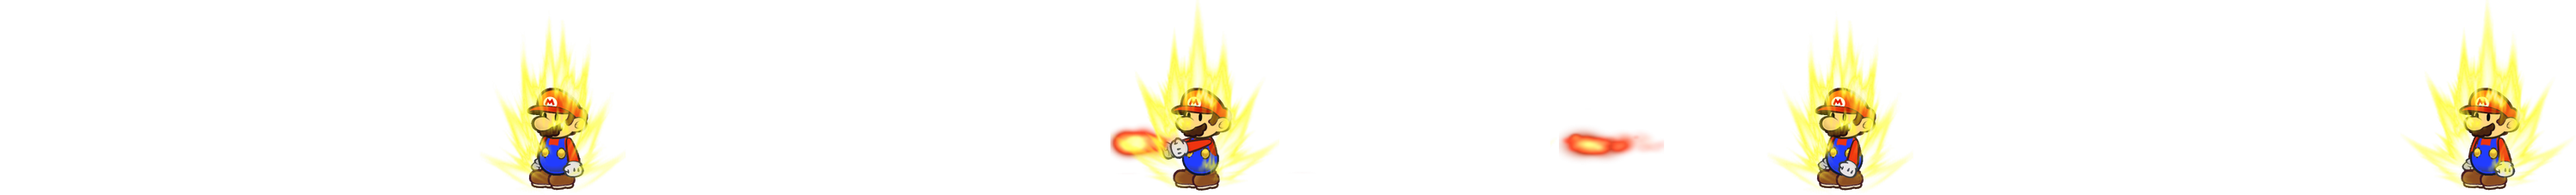
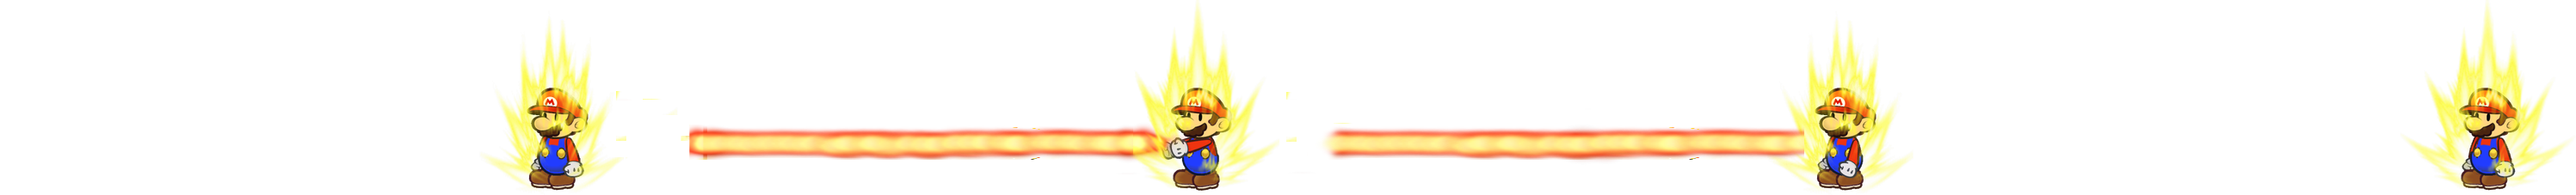
SuperMario Wasted Screen Inserted

Changed region(s): [[0.497, 0.6476, 0.7144, 0.8326], [0.2485, 0.6476, 0.4659, 0.8326]]

diff --git a/SuperMarioSanAndreas/world.cpp b/SuperMarioSanAndreas/world.cpp
@@ -8,7 +8,7 @@
 #include <allegro5/allegro_acodec.h>
 #include <cmath>
 using namespace std;
-#define length 1366 //defining the screen lenght 
+#define length 1366 //defining the screen length 
 #define width 770  //defining the screen width 
 #include "Enemies.cpp"
 #include "pilars.cpp"
@@ -36,32 +36,7 @@ void drawMulti(first startloop, first endloop, first plusplus,second object[],fi
 			}
 		}
 int top, bot, lef, righ;
-bool marioCollide(float x, float y, float ex, float ey, int len, int height, float &moveSpeed, int dir, ALLEGRO_BITMAP *player, ALLEGRO_BITMAP *enemy)
-{
-	if (x+len<ex||x>ex+len||y+height<ey||y>ey+height)
-		return false;
-	else
-	{
-		top = max(y, ey);
-		bot = min(y + height, ey + height);
-		lef= max(x, ex);
-		righ = min(x + len, ex + len);
-		for (int i= top; i < bot; i++)
-		{
-			for (int j = lef; j < righ; j++)
-			{
-				al_lock_bitmap(player, al_get_bitmap_format(player), ALLEGRO_LOCK_READONLY);
-				al_lock_bitmap(enemy, al_get_bitmap_format(enemy), ALLEGRO_LOCK_READONLY);
-				ALLEGRO_COLOR color = al_get_pixel(player, j - x, i - y);
-				ALLEGRO_COLOR color2 = al_get_pixel(enemy, j - ex, i - ey);
-				if (color.a != 0 && color2.a != 0)
-				{
-					return true;//collide
-				}
-			}
-		}
-	}
-}
+
 
  int main(){//main function
 
@@ -151,7 +126,7 @@ bool marioCollide(float x, float y, float ex, float ey, int len, int height, flo
 
 	///////////////////////////////////////////////////////////////////////IMAGE LOADING/////////////////////////////////////////////////////////////
 	ALLEGRO_BITMAP *start = al_load_bitmap("start.png");
-
+	ALLEGRO_BITMAP *wasted = al_load_bitmap("wasted screen.png");
 	ALLEGRO_BITMAP *Duck = al_load_bitmap("Duck.png");
 	ALLEGRO_BITMAP *Jump = al_load_bitmap("Jump.png");
 	ALLEGRO_BITMAP *Stand = al_load_bitmap("Stand.png");
@@ -193,14 +168,12 @@ bool marioCollide(float x, float y, float ex, float ey, int len, int height, flo
 	ALLEGRO_BITMAP *luigiBM = al_load_bitmap("Luigi.png");
 	ALLEGRO_BITMAP *luigiHealth = al_load_bitmap("Luigi_health_bar.png");
 
+	ALLEGRO_BITMAP *currMario1;
+	ALLEGRO_BITMAP *currMario2;
 
[1 lines of base64/hex data omitted]
-	ALLEGRO_SAMPLE *startSound = al_load_sample("1.wav");
-	//ALLEGRO_SAMPLE_ID id1;
-	ALLEGRO_SAMPLE *gameSong = al_load_sample("Mario Theme Song (thewcoop Trap Remix).wav");
-	//ALLEGRO_SAMPLE_ID id2;
-	al_reserve_samples(2);
 	///////////////////////////////////////////////////CALLING CLASSES/////////////////////////////////////////////////////////////////////////////
+	
+	SuperMario marioObject;
 
 	Enemies gangster[numOfEnemys];						//creates 1 object of enemies class
 	gangster[0].setValues(1000, 590, 1000, 1500,1);	//sets values to enemy
@@ -457,18 +430,37 @@ bool marioCollide(float x, float y, float ex, float ey, int len, int height, flo
 	al_start_timer(luigiTimer);	// luigi timer
 	al_get_keyboard_state(&keyState);
 	jumpCheck = false;
-	
[1 lines of base64/hex data omitted]
+ALLEGRO_SAMPLE *startSound = al_load_sample("1.wav");
+	//ALLEGRO_SAMPLE_ID id1;
+	ALLEGRO_SAMPLE *gameSong = al_load_sample("Mario Theme Song (thewcoop Trap Remix).wav");
+	//ALLEGRO_SAMPLE_ID id2;
+	al_reserve_samples(2);
 	/////////////////////////////////////////////////////////Start SplashScreen////////////////////////////////////////////////
-
 	
-	while (!done)	// main game loop
+	
+ while (!done)	// splash loop
 	{
 		ALLEGRO_EVENT events;
 		al_wait_for_event(event_queue, &events);
-		if (events.type == ALLEGRO_EVENT_TIMER)
+		if (events.type == ALLEGRO_EVENT_KEY_DOWN)
 		{
 
+			switch (events.keyboard.keycode)
+			{
+			case ALLEGRO_KEY_ESCAPE:
+				done = true;
+				break;
+			}
+		}
 
+		else if (events.type == ALLEGRO_EVENT_DISPLAY_CLOSE)
+		{
+			done = true;
+		}
+
+			if (events.type == ALLEGRO_EVENT_TIMER)
+			{
 			if (events.timer.source == timer)
 			{
 				al_play_sample(startSound,1.0,0.0,1.0,ALLEGRO_PLAYMODE_LOOP,0);
@@ -493,8 +485,59 @@ bool marioCollide(float x, float y, float ex, float ey, int len, int height, flo
 
 	//al_stop_sample(id1);
 	al_destroy_sample(startSound);
-
+	bool reset = false;
 	/////////////////////////////////////////////////////////End Of Start SplashScreen////////////////////////////////
+Line2:
+
[1 lines of base64/hex data omitted]
+	if (reset == true)
+	{
+		while (!done)	// main game loop
+		{
+			ALLEGRO_EVENT events;
+			al_wait_for_event(event_queue, &events);
+			if (events.type == ALLEGRO_EVENT_KEY_DOWN)
+			{
+
+				switch (events.keyboard.keycode)
+				{
+				case ALLEGRO_KEY_ESCAPE:
+					done = true;
+					break;
+				}
+			}
+
+			else if (events.type == ALLEGRO_EVENT_DISPLAY_CLOSE)
+			{
+				done = true;
+			}
+
+			if (events.type == ALLEGRO_EVENT_TIMER)
+			{
+				if (events.timer.source == timer)
+				{
+					active = true;
+
+					al_get_keyboard_state(&keyState);
+
+					if (al_key_down(&keyState, ALLEGRO_KEY_SPACE))
+					{
+						done = true;
+					}
+					draw = true;
+				}
+				if (draw)
+				{
+					
+					al_draw_bitmap(wasted, cameraposition[0], cameraposition[1], NULL);
+					al_flip_display();
+					reset = false;
+					draw = false;
+				}
+			}
+		}
+	}
+	/////////////////////////////////////////////////////////End Of Reset////////////////////////////////
 	done = false;
 
 	level = 3; //The level
@@ -508,11 +551,12 @@ bool marioCollide(float x, float y, float ex, float ey, int len, int height, flo
 
 	while (!done)	// main game loop
 	{
-		//al_play_sample(gameSong, 1.0, 0.0, 1.0, ALLEGRO_PLAYMODE_LOOP, 0);
+		al_play_sample(gameSong, 1.0, 0.0, 1.0, ALLEGRO_PLAYMODE_LOOP, 0);
 		ALLEGRO_EVENT events;
 		al_wait_for_event(event_queue, &events);
 
-
+		
+		
 		if (events.type == ALLEGRO_EVENT_KEY_DOWN)
 		{
 
@@ -779,31 +823,53 @@ bool marioCollide(float x, float y, float ex, float ey, int len, int height, flo
 				{
 				case 0:
 					if (check2 == 1)
-						al_draw_bitmap_region(SuperJumpRight, sourceXf, 0, al_get_bitmap_width(SuperJumpRight) / 10, al_get_bitmap_height(SuperJumpRight), x-20, y, NULL);
+					{
+						al_draw_bitmap_region(SuperJumpRight, sourceXf, 0, al_get_bitmap_width(SuperJumpRight) / 10, al_get_bitmap_height(SuperJumpRight), x - 20, y, NULL);
+						currMario2 = al_create_sub_bitmap(SuperJumpRight, sourceXf, 0, al_get_bitmap_width(SuperJumpRight) / 10, al_get_bitmap_height(SuperJumpRight));
+					}
 					else
-						al_draw_bitmap_region(SuperJumpLeft, sourceXb, 0, al_get_bitmap_width(SuperJumpLeft) / 10, al_get_bitmap_height(SuperJumpLeft), x-20, y, NULL);
+					{
+						al_draw_bitmap_region(SuperJumpLeft, sourceXb, 0, al_get_bitmap_width(SuperJumpLeft) / 10, al_get_bitmap_height(SuperJumpLeft), x - 20, y, NULL);
+						currMario1 = al_create_sub_bitmap(SuperJumpLeft, sourceXb, 0, al_get_bitmap_width(SuperJumpLeft) / 10, al_get_bitmap_height(SuperJumpLeft));
+					}
 					break;
 				case 1:
 					if (check2 == 1)
-						al_draw_bitmap_region(SuperDuckRight, sourceXe, 0, al_get_bitmap_width(SuperDuckRight) / 10, al_get_bitmap_height(SuperDuckRight), x-18, y-3 , NULL);
+					{
+						al_draw_bitmap_region(SuperDuckRight, sourceXe, 0, al_get_bitmap_width(SuperDuckRight) / 10, al_get_bitmap_height(SuperDuckRight), x - 18, y - 3, NULL);
+						currMario2 = al_create_sub_bitmap(SuperDuckRight, sourceXe, 0, al_get_bitmap_width(SuperDuckRight) / 10, al_get_bitmap_height(SuperDuckRight));
+					}
 					else
-						al_draw_bitmap_region(SuperDuckLeft, sourceXa, 0, al_get_bitmap_width(SuperDuckLeft) / 10, al_get_bitmap_height(SuperDuckLeft), x-18, y-3 , NULL);
+					{
+						al_draw_bitmap_region(SuperDuckLeft, sourceXa, 0, al_get_bitmap_width(SuperDuckLeft) / 10, al_get_bitmap_height(SuperDuckLeft), x - 18, y - 3, NULL);
+						currMario1 = al_create_sub_bitmap(SuperDuckLeft, sourceXa, 0, al_get_bitmap_width(SuperDuckLeft), al_get_bitmap_height(SuperDuckLeft));
+					}
 					break;
 				case 2:
 					al_draw_bitmap_region(SuperWalkLeft, sourceXc, 0, al_get_bitmap_width(SuperWalkLeft) / 10, al_get_bitmap_height(SuperWalkLeft), x , y+20, NULL);
+					currMario1 = al_create_sub_bitmap(SuperWalkLeft, sourceXc, 0, al_get_bitmap_width(SuperWalkLeft) / 10, al_get_bitmap_height(SuperWalkLeft));
 					break;
 				case 3:al_draw_bitmap_region(SuperWalkRight, sourceXg, 0, al_get_bitmap_width(SuperWalkRight) / 10, al_get_bitmap_height(SuperWalkRight), x , y+20, NULL);
+					currMario2 = al_create_sub_bitmap(SuperWalkRight, sourceXg, 0, al_get_bitmap_width(SuperWalkRight) / 10, al_get_bitmap_height(SuperWalkRight));
 					break;
 				case 4:al_draw_bitmap_region(SuperStandRight, sourceXh, 0, al_get_bitmap_width(SuperStandRight) / 10, al_get_bitmap_height(SuperStandRight), x, y, NULL);
+					currMario2 = al_create_sub_bitmap(SuperStandRight, sourceXh, 0, al_get_bitmap_width(SuperStandRight) / 10, al_get_bitmap_height(SuperStandRight));
 					break;
 				case 5:
 					al_draw_bitmap_region(SuperStandLeft, sourceXd, 0, al_get_bitmap_width(SuperStandLeft) / 10, al_get_bitmap_height(SuperStandLeft), x, y, NULL);
+					currMario1 = al_create_sub_bitmap(SuperStandLeft, sourceXd, 0, al_get_bitmap_width(SuperStandLeft) / 10, al_get_bitmap_height(SuperStandLeft));
 					break;
 				case 6:
 					if (check2 == 1)
-						al_draw_bitmap_region(SuperAttackRight, sourceXj, 0, al_get_bitmap_width(SuperAttackRight) / 4, al_get_bitmap_height(SuperAttackRight), x - 23, y-1, NULL);
+					{
+						al_draw_bitmap_region(SuperAttackRight, sourceXj, 0, al_get_bitmap_width(SuperAttackRight) / 4, al_get_bitmap_height(SuperAttackRight), x - 23, y - 1, NULL);
+						currMario2 = al_create_sub_bitmap(SuperAttackRight, sourceXj, 0, al_get_bitmap_width(SuperAttackRight) / 4, al_get_bitmap_height(SuperAttackRight));
+					}
 					else
-						al_draw_bitmap_region(SuperAttackLeft, sourceXi, 0, al_get_bitmap_width(SuperAttackLeft) / 4, al_get_bitmap_height(SuperAttackLeft), x -565, y-1 , NULL);
+					{
+						al_draw_bitmap_region(SuperAttackLeft, sourceXi, 0, al_get_bitmap_width(SuperAttackLeft) / 4, al_get_bitmap_height(SuperAttackLeft), x - 565, y - 1, NULL);
+						currMario1 = al_create_sub_bitmap(SuperAttackLeft, sourceXi, 0, al_get_bitmap_width(SuperAttackLeft) / 4, al_get_bitmap_height(SuperAttackLeft));
+					}
 					break;
 				}
 			}
@@ -813,31 +879,50 @@ bool marioCollide(float x, float y, float ex, float ey, int len, int height, flo
 				{
 				case 0:
 					if (check2 == 1)
+					{
 						al_draw_bitmap_region(Jump1, sourceXf, 0, al_get_bitmap_width(Jump1) / 10, al_get_bitmap_height(Jump1), x, y, NULL);
+						currMario2 = al_create_sub_bitmap(SuperAttackLeft, sourceXf, 0, al_get_bitmap_width(Jump1) / 10, al_get_bitmap_height(SuperAttackLeft));
+					}
 					else
+					{
 						al_draw_bitmap_region(Jump, sourceXb, 0, al_get_bitmap_width(Jump) / 10, al_get_bitmap_height(Jump), x, y, NULL);
+						currMario1 = al_create_sub_bitmap(SuperAttackLeft, sourceXb, 0, al_get_bitmap_width(Jump) / 10, al_get_bitmap_height(SuperAttackLeft));
+					}
 					break;
 				case 1:
 					if (check2 == 1)
+					{
 						al_draw_bitmap_region(Duck1, sourceXe, 0, al_get_bitmap_width(Duck1) / 10, al_get_bitmap_height(Duck1), x, y + 20, NULL);
+						currMario2 = al_create_sub_bitmap(Duck1, sourceXe, 0, al_get_bitmap_width(Duck1) / 10, al_get_bitmap_height(Duck1));
+					}
 					else
+					{
 						al_draw_bitmap_region(Duck, sourceXa, 0, al_get_bitmap_width(Duck) / 10, al_get_bitmap_height(Duck), x, y + 20, NULL);
+						currMario1 = al_create_sub_bitmap(Duck, sourceXa, 0, al_get_bitmap_width(Duck) / 10, al_get_bitmap_height(Duck));
+					}
 					break;
 				case 2:
 					al_draw_bitmap_region(Walk, sourceXc, 0, al_get_bitmap_width(Walk) / 10, al_get_bitmap_height(Walk), x - 20, y, NULL);
+					currMario1 = al_create_sub_bitmap(Walk, sourceXc, 0, al_get_bitmap_width(Walk)/10, al_get_bitmap_height(Walk)); 
 					break;
 				case 3:al_draw_bitmap_region(Walk1, sourceXg, 0, al_get_bitmap_width(Walk1) / 10, al_get_bitmap_height(Walk1), x - 20, y, NULL);
-					break;
+					currMario2 = al_create_sub_bitmap(Walk1, sourceXg, 0, al_get_bitmap_width(Walk1) / 10, al_get_bitmap_height(Walk1)); break;
 				case 4:al_draw_bitmap_region(Stand1, sourceXh, 0, al_get_bitmap_width(Stand1) / 10, al_get_bitmap_height(Stand1), x, y, NULL);
-					break;
+					currMario2 = al_create_sub_bitmap(Stand1, sourceXh, 0, al_get_bitmap_width(Stand1) / 10, al_get_bitmap_height(Stand1)); break;
 				case 5:
 					al_draw_bitmap_region(Stand, sourceXd, 0, al_get_bitmap_width(Stand) / 10, al_get_bitmap_height(Stand), x, y, NULL);
-					break;
+					currMario1 = al_create_sub_bitmap(Stand, sourceXd, 0, al_get_bitmap_width(Stand) / 10, al_get_bitmap_height(Stand)); break;
 				case 6:
 					if (check2 == 1)
+					{
 						al_draw_bitmap_region(AttackR, sourceXj, 0, al_get_bitmap_width(AttackR) / 10, al_get_bitmap_height(AttackR), x - 11, y - 19, NULL);
+						currMario2 = al_create_sub_bitmap(AttackR, sourceXj, 0, al_get_bitmap_width(AttackR) / 10, al_get_bitmap_height(AttackR));
+					}
 					else
+					{
 						al_draw_bitmap_region(AttackL, sourceXi, 0, al_get_bitmap_width(AttackL) / 10, al_get_bitmap_height(AttackL), x - 148, y - 19, NULL);
+						currMario1 = al_create_sub_bitmap(AttackL, sourceXi, 0, al_get_bitmap_width(AttackL) / 10, al_get_bitmap_height(AttackL));
+					}
 					break;
 				}
 			}
@@ -923,22 +1008,34 @@ bool marioCollide(float x, float y, float ex, float ey, int len, int height, flo
 				{
 					gangster[i].move(enemyMovespeed);
 
-					al_lock_bitmap(AttackR, al_get_bitmap_format(AttackR), ALLEGRO_LOCK_READONLY);
-					al_lock_bitmap(AttackL, al_get_bitmap_format(AttackL), ALLEGRO_LOCK_READONLY);
-
+					al_lock_bitmap(SuperAttackRight, al_get_bitmap_format(SuperAttackRight), ALLEGRO_LOCK_READONLY);
+					al_lock_bitmap(SuperAttackLeft, al_get_bitmap_format(SuperAttackLeft), ALLEGRO_LOCK_READONLY);
+					
 					ALLEGRO_BITMAP *currMario;
 
 					if (check2 == 1)
 					{
-						currMario = al_create_sub_bitmap(AttackR, sourceXj + 100 , 0, 133, 140);	//get current animation of mario
+						currMario = al_create_sub_bitmap(SuperAttackRight, sourceXj + 100 , 0, 133, 140);	//get current animation of mario
 						gangster[i].getHitWithHammer(punch_gangster, chain_gangster, currMario, x + 89, y, al_get_bitmap_width(currMario), 140, hit);	//checks if enemy gets hit with hammer, if true, enemy dies
 					}
 					else
 					{
-						currMario = al_create_sub_bitmap(AttackL, sourceXi, 0, 133, 140);	//get current animation of mario
+						currMario = al_create_sub_bitmap(SuperAttackLeft, sourceXi, 0, 133, 140);	//get current animation of mario
 						gangster[i].getHitWithHammer(punch_gangster, chain_gangster, currMario, x - 148, y, al_get_bitmap_width(currMario), 140, hit);	//checks if enemy gets hit with hammer, if true, enemy dies
 					}
-					
+					currMario1 = al_create_sub_bitmap(SuperAttackLeft, sourceXj + 100, 0, 133, 140);
+					if (marioObject.marioCollide(x, y, gangster[i].x, gangster[i].y, al_get_bitmap_width(currMario), al_get_bitmap_height(currMario), currMario1, punch_gangster) || marioObject.marioCollide(x, y, gangster[i].x, gangster[i].y, al_get_bitmap_width(currMario), al_get_bitmap_height(currMario), currMario1, chain_gangster))
+					{
+						
+						reset = true;
+						goto Line2;
+					}
+					currMario2 = al_create_sub_bitmap(SuperAttackRight, sourceXj + 100, 0, 133, 140);
+					if (marioObject.marioCollide(x, y, gangster[i].x, gangster[i].y, al_get_bitmap_width(currMario), al_get_bitmap_height(currMario), currMario1, punch_gangster) || marioObject.marioCollide(x, y, gangster[i].x, gangster[i].y, al_get_bitmap_width(currMario), al_get_bitmap_height(currMario), currMario1, chain_gangster))
+					{
+						reset = true;
+					goto Line2;
+					}
 					gangster[i].draw(punch_gangster, chain_gangster, (events.timer.source == enemyTimer));	// draw method from Enemies class
 					al_destroy_bitmap(currMario);
 				}

diff --git a/SuperMarioSanAndreas/SuperMario.cpp b/SuperMarioSanAndreas/SuperMario.cpp
@@ -1,5 +1,43 @@
-#include "SuperMario.h"
+#include <allegro5/allegro.h>//telling compiler to include allegro 5 files
+#include <iostream> //telling compiler to include iostream files
+#include <allegro5/allegro_image.h>//telling compiler to include allegro 5 image file
+#include <allegro5/allegro_primitives.h>//telling compiler to include allegro 5 primitives
+//#include <allegro5/allegro_ttf.h>
+//#include <allegro5/allegro_font.h>	
+#include <allegro5/allegro_audio.h>
+#include <allegro5/allegro_acodec.h>
+#include <cmath>
+class SuperMario{
 
+public:
+	int top, bot, lef, righ;
+	bool marioCollide(float x, float y, float ex, float ey, int len, int height, ALLEGRO_BITMAP *player, ALLEGRO_BITMAP *enemy)
+{
+	if (x+len<ex||x>ex+len||y+height<ey||y>ey+height)
+		return false;
+	else
+	{
+		top = max(y, ey);
+		bot = min(y + height, ey + height);
+		lef= max(x, ex);
+		righ = min(x + len, ex + len);
+		for (int i= top; i < bot; i++)
+		{
+			for (int j = lef; j < righ; j++)
+			{
+				al_lock_bitmap(player, al_get_bitmap_format(player), ALLEGRO_LOCK_READONLY);
+				al_lock_bitmap(enemy, al_get_bitmap_format(enemy), ALLEGRO_LOCK_READONLY);
+				ALLEGRO_COLOR color = al_get_pixel(player, j - x, i - y);
+				ALLEGRO_COLOR color2 = al_get_pixel(enemy, j - ex, i - ey);
+				if (color.a != 0 && color2.a != 0)
+				{
+					return true;//die
+				}
+			}
+		}
+	}
+}
+};
 
 
 
